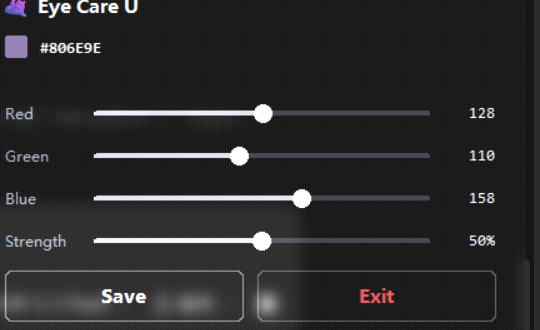
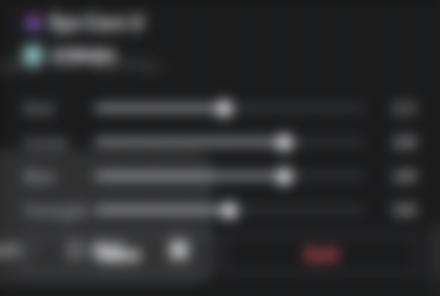
docs: README 面板截图改为窗口对齐直拍；menu_qa 桌面焦点竞争下稳定运行

diff --git a/tools/menu_qa.py b/tools/menu_qa.py
@@ -1,7 +1,7 @@
 # -*- coding: utf-8 -*-
-"""托盘控制面板 QA：渲染截图 + Save 合成点击 + HEX 输入 + 真实鼠标穿透测试。
+"""托盘控制面板 QA：渲染截图 + Save 合成点击 + 真实鼠标穿透测试。
 用法: .build-venv/Scripts/python tools/menu_qa.py
-产物: tools/menu_shot.png
+产物: docs/screenshot.png（面板截图，供 README 使用）
 """
 import ctypes
 import ctypes.wintypes as wt
@@ -13,6 +13,7 @@ import time
 
 ctypes.windll.user32.SetProcessDPIAware()   # 物理像素坐标
 user32 = ctypes.windll.user32
+gdi32 = ctypes.windll.gdi32
 
 ROOT = os.path.dirname(os.path.dirname(os.path.abspath(__file__)))
 
@@ -42,10 +43,7 @@ def grab_rect(rect, out):
     from PIL import Image
     img = Image.frombuffer("RGBA", (w, h), bytes(buf), "raw", "BGRA", 0, 1)
     img.convert("RGB").save(out)
-    print("menu shot:", out, img.size)
-
-
-gdi32 = ctypes.windll.gdi32
+    print("panel shot:", out, img.size)
 
 
 def main():
@@ -74,13 +72,34 @@ def main():
         m.save_settings(app.settings)
     app.save_action = fake_save
 
+    # QA 运行在活桌面上，焦点随时会被其他应用抢走；禁用 FocusOut 自动收起，
+    # 面板的开/关由测试显式控制
+    m.GlassPanel._on_focus_out = lambda self, _e: None
+
     panel = m.GlassPanel(app)
+
+    def ensure_panel():
+        if app._panel is not None and app._panel.win.winfo_exists():
+            return app._panel
+        app._panel = m.GlassPanel(app)
+        return app._panel
+
+    def grab_shot():
+        p = ensure_panel()
+        hwnd = m.native_hwnd(p.win)
+        rect = wt.RECT()
+        user32.GetWindowRect(hwnd, ctypes.byref(rect))
+        shot = os.path.join(ROOT, "tools", "menu_shot.png")
+        grab_rect(rect, shot)
+        docs = os.path.join(ROOT, "docs", "screenshot.png")
+        os.replace(shot, docs)
+        print("screenshot ->", docs)
 
     def click_save():
         # 合成点击 Save 按钮中心：验证命中区 + 保存逻辑
         app.settings["r"] = 123
-        panel.canvas.event_generate("<Button-1>", x=119, y=254)
-        root.after(250, check_file, 123)
+        p = ensure_panel()
+        p.canvas.event_generate("<Button-1>", x=119, y=254)
 
     def check_file(expect):
         try:
@@ -93,7 +112,8 @@ def main():
 
     def real_click():
         # 真实鼠标点击 Save 中心：验证玻璃底（黑色区域）不再鼠标穿透
-        hwnd = m.native_hwnd(panel.win)
+        p = ensure_panel()
+        hwnd = m.native_hwnd(p.win)
         rect = wt.RECT()
         user32.GetWindowRect(hwnd, ctypes.byref(rect))
         user32.SetCursorPos(rect.left + 119, rect.top + 254)
@@ -107,17 +127,19 @@ def main():
               "save_count =", app.save_count)
 
     def finish():
-        hwnd = m.native_hwnd(panel.win)
+        p = ensure_panel()
+        hwnd = m.native_hwnd(p.win)
         rect = wt.RECT()
         user32.GetWindowRect(hwnd, ctypes.byref(rect))
         grab_rect(rect, os.path.join(ROOT, "tools", "menu_shot.png"))
-        panel.close()
+        p.close()
         root.destroy()
 
-    root.after(500, click_save)
-    root.after(750, lambda: check_file(123))
-    root.after(1100, real_click)
-    root.after(1500, real_check)
+    root.after(450, grab_shot)
+    root.after(700, click_save)
+    root.after(950, lambda: check_file(123))
+    root.after(1200, real_click)
+    root.after(1550, real_check)
     root.after(1900, lambda: root.after(0, finish))
     root.mainloop()
 
